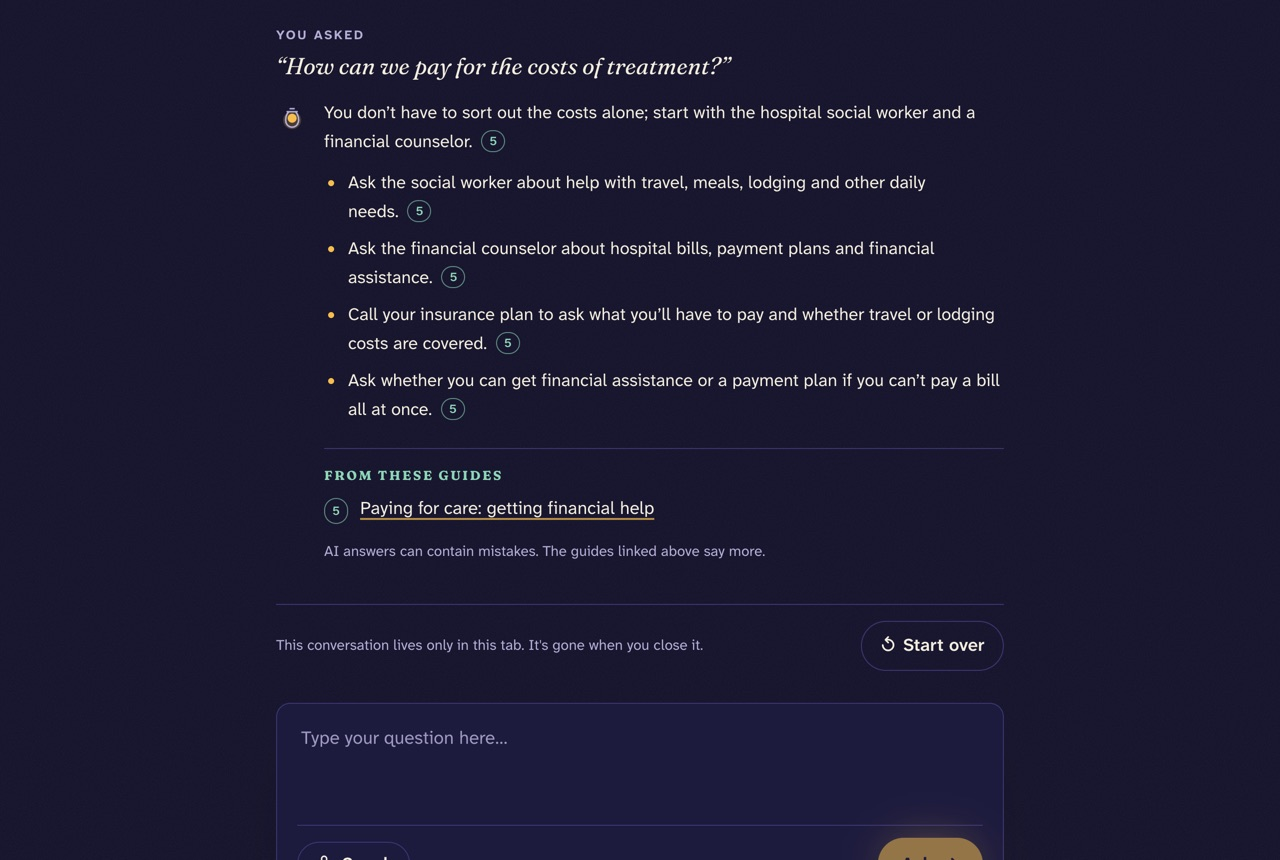
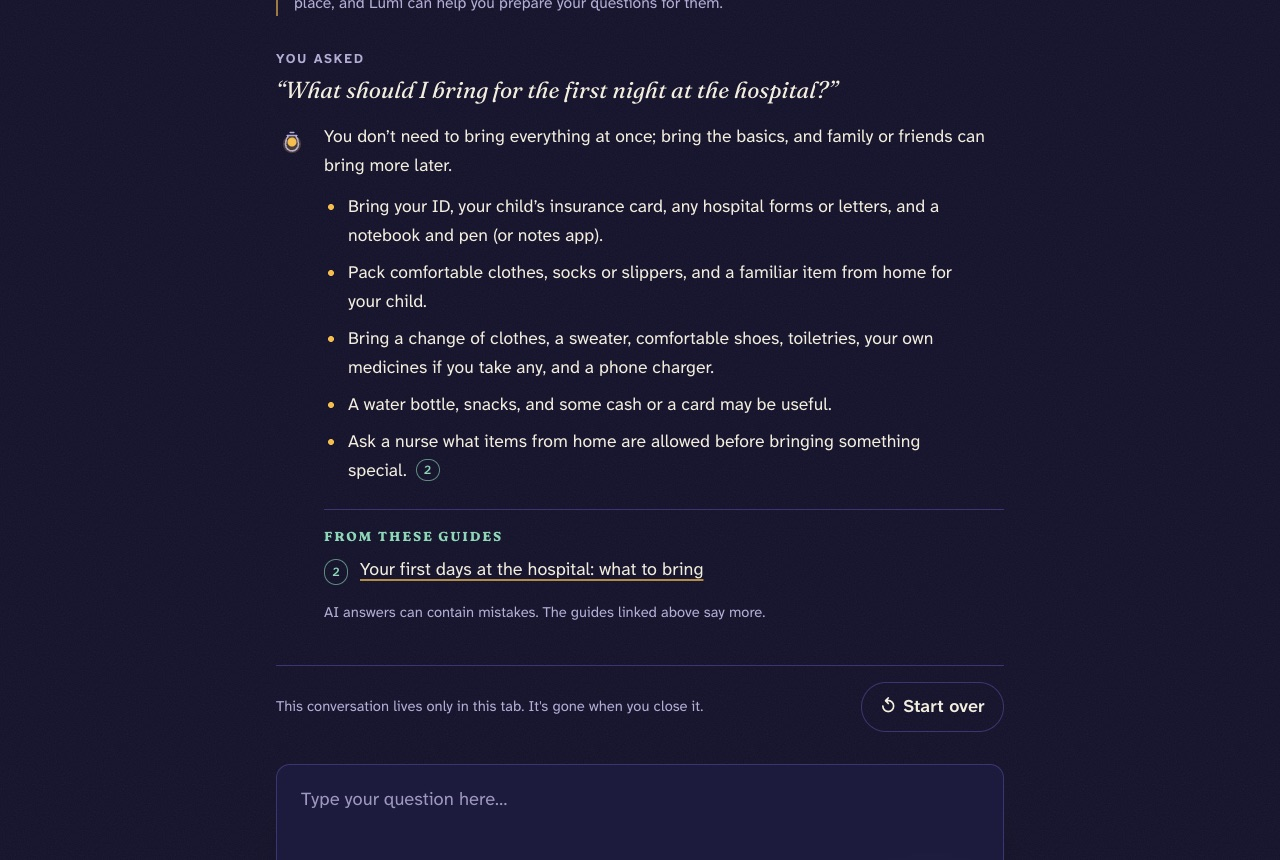
docs: Phase 3 fixes round 1 (ADR 0016 revision 1, tradeoffs, screenshots, process log)

diff --git a/docs/decisions/0016-phase-3-ui.md b/docs/decisions/0016-phase-3-ui.md
@@ -1,6 +1,6 @@
 # 0016 — Phase 3 UI: one deep slice, honest mocks, on-device state
 
-**Status:** Proposed · 2026-10-31 · *Phase 3 (UI). Pending review and Felipe's sign-off.*
+**Status:** Proposed · 2026-10-31 · *Phase 3 (UI). Revised after Codex's Phase 3 review (fixes round 1). Pending re-review and Felipe's sign-off.*
 
 ## Context
 The brief asks for one slice done deeply and reasonable placeholders for the rest. The server side (Phases 0–2) is done: the chat pipeline, notebook classification, voice, gaps, staff and the ledger. Phase 3 is the site a stressed parent actually sees, often on a phone at 2 a.m. It must also look like something FutureProofing would proudly show a client, without any "AI template" look. Nothing in this phase may weaken a server guardrail.
@@ -40,12 +40,12 @@ The brief asks for one slice done deeply and reasonable placeholders for the res
 - The processing notice (`notebook.processingNotice`, naming OpenAI; ADR 0005) sits next to the button, so it's seen before anything is sent.
 - Prepare sends at most `maxNotes` (the most recent 40).
 - The page renders the current contract:
-  - Safety notices come first, on organized pages, fallback pages and 400 responses.
+  - Safety notices come first, before any note, on every sheet: organized, fallback, 400 responses and the by-date page (see "Revision 1").
   - Topic headings come from the dictionaries.
   - Note text is rendered verbatim (`white-space: pre-wrap`), with the wall-clock date the device wrote.
-- If preparing fails, "Print my notes by date" builds the same page on the device without AI.
+- If preparing fails (or the device is offline), "Print my notes by date" builds the same page on the device without AI, with the safety notices.
 - Print uses a print stylesheet: ink on white, a header with the date, and no navigation or buttons.
-- Share uses the Web Share API where available, and otherwise copies to the clipboard. There's also a plain "Copy". Shared and copied text is the notes verbatim.
+- Share uses the Web Share API where available, and otherwise copies to the clipboard. There's also a plain "Copy". Shared and copied text starts with the full fixed safety notice (title, body and every step, in the page's language) when one applies, then the notes verbatim.
 
 **Guides:** the KB articles themselves, as a library and article pages. Citations link there.
 
@@ -60,6 +60,33 @@ The brief asks for one slice done deeply and reasonable placeholders for the res
 **Language:** `[locale]` routes and all copy in the dictionaries (Spanish with "tú"). The language switch is a **full page load**, because it swaps `<html lang>`, and a client re-render of the root layout warned about the theme script and dropped the saved theme.
 
 **Footer:** "Lumi is a fictional foundation. Demo content. Not medical advice." It also holds the **only** non-safety phone number on the site, a fictional `555-0142` in `footer.contactPhone`, enforced by the dictionary tests (ADR 0012).
+
+## Revision 1: Phase 3 fixes round 1 (Codex review)
+
+**Safety notices can't be lost on the device (B1, B4)**
+- The notebook page runs the **same** deterministic check as the server (`checkEmergency` from `src/server/safety`). That module is pure TypeScript with no Node APIs, so it's imported directly. Nothing was copied, and the server rules are unchanged.
+- `src/lib/notebook-sheet.ts` builds every sheet. It merges the server's notices with the local check: a note is flagged if either flags it, and one notice is shown per kind, medical emergency first.
+- The error panel shows the notices from a 400 together with the local check. "Print my notes by date" keeps both. Offline, the local check alone flags the page.
+- A server notice on the by-date page contributes only its **kind**. Its `noteIndex` refers to the request, which may differ from the notes now on the page (notes added since, or the 40-note cap), so the flag dots come from the local check.
+- `src/lib/notebook-safety.ts` holds the kind → copy mapping, used by both the screen and Copy/Share. The export can't drift from the screen: it includes the title, the body and every step, so the self-harm notice carries 911 and 988.
+
+**Verbatim means verbatim (B5):** `addNote` stores the string exactly as typed, including leading and trailing whitespace and newlines. `trim` is only used to refuse a blank note. The request sends the same string, and the server already showed notes untrimmed. The list and the sheet render with `white-space: pre-wrap`.
+
+**No microphone after leaving (B2):** each start takes a token, and unmounting bumps it. `openMicrophone` (src/lib/voice.ts) checks the token after the permission prompt resolves. A stale stream has every track stopped at once, and no recorder is created.
+
+**Staff sign-out is confirmed (B3):** the session cookie is httpOnly, so only the server can clear it. The page shows sign-in only after `/api/staff/logout` answers `200 {status:"ok"}`. Otherwise the dashboard stays, with "Couldn't sign you out. Try again." and a retry button (EN/ES).
+
+**Polish**
+- **Phone landing:** the headline, lede and "Ask Lumi a question" come before the illustration below `lg`. At 390 × 844 the button ends at about 570–620 px, above the fold.
+- **Citation pills:** `collapseRepeatedCitations` is presentation only, and only for answers. A run of consecutive citations to the same single guide (across sentences, bullets and paragraphs) shows one pill at its end. A grouped citation ("[1, 3]"), a change of guide or a heading ends the run. An answer that cites one guide throughout shows a single pill. The Sources list and the citation checks are untouched.
+- **Ask box focus:** when the textarea has focus, the box gets an amber border and a 3 px ring.
+- **Volunteer:** scrolling to the sign-up form uses `behavior: "auto"` under `prefers-reduced-motion`.
+
+**Tradeoffs accepted in this revision**
+- The safety regexes now also ship in the browser bundle. They're public in the repo anyway, and they're small. A client that skips them only hurts itself, because the server still checks every note before preparing.
+- A collapsed run leaves earlier sentences without their own pill. The claim's source is the next pill in the run, which is always the same single guide, so the association stays correct but less explicit.
+- Notes typed with stray trailing spaces or blank lines print that way. That's the cost of "the parent's own words, exactly".
+- The by-date page shows server notices by kind, without pointing at a note, when only the server matched. This can only happen if the server and client rules diverge, which they can't with a shared module.
 
 ## Consequences
 - The deep slice is complete end to end, and every failure ends in calm, fixed copy with 911.
@@ -76,6 +103,8 @@ The brief asks for one slice done deeply and reasonable placeholders for the res
 - **Mock schedules:** no clock times, because the dosage gate in the content rules flags them in UI copy.
 - **First-save network error:** if the very first gap save loses its response, the UI says "couldn't save". The id is created by the server, so the page has no credentials to retry or delete. The lazy retention and staff delete still apply.
 - **Staff 401 in the console:** opening the staff page before signing in logs one browser "401" line. It's the session check, by contract.
+- **Generic notebook rate-limit wording:** a rate-limited (or capacity-limited) prepare returns the by-date fallback page with the generic "We couldn't sort your notes by topic right now" line, not a specific "try again in a few minutes". Left as is after the Phase 3 review.
+- **Narrow screens and zoom:** checked at 390 px and 1280 px only. 320 px widths and 200% browser zoom weren't systematically checked. Left as is after the Phase 3 review.
 
 ## Alternatives
 - **A component library (shadcn/Radix).** Rejected: it brings the template look we're avoiding, and a few utilities were enough.

diff --git a/docs/PROCESS.md b/docs/PROCESS.md
@@ -430,3 +430,36 @@ The builder agent (Claude) built every page and flow on top of the approved serv
 **Live usage for the check** (from the ledger): 19 `gpt-6-luna` calls (router 10, answer 6, notebook 3) and 1 `gpt-transcribe` call (4 s), about $0.003 derived. Fixed-copy outcomes were checked live first. For the README stills they replay the same event shape.
 
 **Checks.** Node 24.19.0. `pnpm lint` ✓, `pnpm typecheck` ✓, `pnpm test` ✓ (37 files, 646 tests, up from 589), `pnpm test:kb` ✓ (5 files, 156 tests), `pnpm build` ✓. All exit codes 0.
+
+## Phase 3 fixes round 1 (Codex review)
+
+Codex reviewed Phase 3 and found five blocking issues and four cheap polish items. The builder agent (Claude) fixed only those, as fixes round 1 of at most 2. Decisions and tradeoffs are in [ADR 0016 § Revision 1](decisions/0016-phase-3-ui.md#revision-1-phase-3-fixes-round-1-codex-review) and the README table. Server guardrails were untouched.
+
+| Finding | Status | What changed |
+|---|---|---|
+| B1 Local notebook fallback dropped safety notices | Fixed | The page imports the server's own `checkEmergency` (pure, no Node APIs). `src/lib/notebook-sheet.ts` merges server and local notices for every sheet. The 400 panel, "Print my notes by date" and offline preparation all show the fixed notices before the notes, with flagged notes marked. |
+| B2 Recording could start after leaving the page | Fixed | A start token, bumped on unmount, plus `openMicrophone()`. A stream that arrives late has every track stopped, and no `MediaRecorder` is created. |
+| B3 Failed staff logout left a hidden session | Fixed | `signOutStaff()` succeeds only on `200 {status:"ok"}`. On failure the dashboard stays, with "Couldn't sign you out. Try again." / "No pudimos cerrar tu sesión. Inténtalo de nuevo." and a retry button. |
+| B4 Copy/Share omitted the safety instructions | Fixed | One kind → copy mapping (`src/lib/notebook-safety.ts`) feeds both the screen and the export. The text includes the title, body and every step, in the sheet's language, before the notes (911; plus 988 for self-harm). |
+| B5 "Verbatim" trimmed whitespace | Fixed | `addNote` stores the exact string; trim only refuses blank notes. The request and the server already kept it, and the list and sheet use `pre-wrap`. |
+| P1 Phone landing | Applied | The headline, lede and "Ask Lumi a question" come before the illustration below `lg`. The button ends at 571–620 px of an 844 px viewport. |
+| P2 Repeated citation pills | Applied | `collapseRepeatedCitations()`, for answers only: one pill per run of the same single guide. Sources are unchanged. |
+| P3 Ask textarea focus | Applied | An amber border and a 3 px ring on the box while the textarea has focus. |
+| P4 Volunteer smooth scroll | Applied | `behavior: "auto"` under `prefers-reduced-motion`. |
+| Notebook rate-limit wording, 320 px / 200% zoom | Documented | Left as is, per the review. Added to the ADR 0016 known limitations and the README table. |
+
+**Tests** (+26): local notices EN/ES; kind ordering; the export for each kind in EN and ES (title, body, every step, 911/988, before the notes); sheet models (by date and offline flagged, 400 notices kept, prepared merge, verbatim text); exact-whitespace storage; a delayed `getUserMedia` mock (unmounted → tracks stopped, null, no recorder; still mounted → stream untouched; denied → rejects); `signOutStaff` (ok, 500, unexpected body, non-JSON, offline); citation collapsing (single guide → one pill, runs across guides, grouped citations and headings end a run, no-op returns the same blocks).
+
+**Browser re-check:** a production build (`next start`) with Chromium via the scratch `playwright-core` in /tmp. EN and ES at 390 px and 1280 px, 80 checks, 80/80 passed, twice. API responses were mocked with `page.route`, and offline used `context.setOffline`.
+- **B1:** a mocked 400 with a notice → notice in the panel → by-date sheet with the notice before the notes and the note flagged.
+- **B1 offline:** both notices in the panel and on the sheet, the 988 button, 2 flagged notes.
+- **B4:** clipboard text has the titles and steps before the notes, with 988 for self-harm.
+- **B5:** localStorage, the request body and the rendered text are byte-identical, with `pre-wrap`.
+- **B2:** a `getUserMedia` stub resolved after client-side navigation → 1 track stopped (`ended`), 0 recorders.
+- **B3:** a mocked 500 on logout → dashboard and message stay → retry → sign-in, and `/api/staff/gaps` then returns 401.
+- **Polish:** P1 CTA above the fold, no overflow. P2 a mocked answer shows pills [1], [2] with an intact Sources list. P3 a ring appears on focus. P4 reduced motion → `auto`.
+- Screenshots updated: `landing-mobile-es.jpg`, and `ask-answer-desktop.jpg` from **one live call** (the "What to bring" chip). The real answer cited one guide throughout and now shows a single pill at the end.
+
+**What didn't work at first:** the first browser run had a script bug. `section li` matched a step inside the first notice, because the page wraps the sheet in a `<section>`, so it looked like "notices after notes". Scoping the selector to the article fixed it; the app was correct. The mobile nav link in the B2 check is hidden behind the menu, so the check navigates via the logo instead.
+
+**Checks.** Node 24.19.0. `pnpm lint` ✓, `pnpm typecheck` ✓, `pnpm test` ✓ ✓ (2 runs, 40 files, 672 tests each, up from 646), `pnpm test:kb` ✓ (5 files, 156 tests), `pnpm build` ✓. All exit codes 0. Live usage: 1 `gpt-6-luna` answer flow (router + answer).

diff --git a/README.md b/README.md
@@ -75,6 +75,11 @@ Every tradeoff is a conscious, time-boxed choice for a prototype. Each is record
 | **Fictional phone number in the footer** ([ADR 0012](docs/decisions/0012-us-scope-and-crisis-contacts.md), ADR 0016) | The footer's demo contact line shows `555-0142`, from the reserved fictional range. It's the only number besides 911/988, and never in safety or fallback copy. | A real-looking footer without a real number. Tests allow exactly that one key, in the `555-01xx` shape. | A real foundation's contact details. |
 | **First gap save that loses its response** (ADR 0005, 0016) | If the network drops the very first save's response, the page says "couldn't save". It has no id or token yet (the server creates them), so it can't offer a retry or delete. | Rare, and the question still expires with the 30-day purge, and staff can delete it. Retries after an `uncertain` keep their credentials. | Client-generated ids, so every save can be retried or deleted idempotently. |
 | **Language switch reloads the page** (ADR 0016) | Switching EN↔ES is a full page load, which ends the current tab's conversation. | It swaps `<html lang>` cleanly and keeps the saved theme. A client re-render of the root layout dropped both. | Keep the conversation in `sessionStorage` across a language switch. |
+| **Safety check also runs in the browser** (ADR 0016, rev. 1) | The notebook page imports the same deterministic check as the server, so the by-date and offline pages show the fixed notices before the notes. Copy/Share includes the full notice (title, body, every step; 988 for self-harm). The regex lists ship in the client bundle. On the by-date page, a server-only notice shows its kind without pointing at a note. | A notice must never disappear because the network did. One shared module means no drift between server and device. | A shared safety package with its own version, so client and server can be checked for the same rules. |
+| **Repeated citation pills collapsed** (ADR 0016, rev. 1) | When consecutive sentences or bullets cite the same single guide, only the last one in the run shows the pill. An answer citing one guide shows one pill. Earlier sentences in a run have no pill of their own. | Pill after pill on every bullet was noisy at 2 a.m. The Sources list and the citation checks are unchanged, and a run never spans two guides. | Per-sentence hover highlighting of the supporting guide. |
+| **Notes kept with their exact whitespace** (ADR 0016, rev. 1) | Leading and trailing spaces and blank lines are stored, sent and printed as typed. Only blank notes are refused. | "Verbatim" has to mean verbatim for a parent's notes. | A gentle "remove extra blank lines?" suggestion that never edits automatically. |
+| **Generic notebook rate-limit wording** (ADR 0016) | A rate- or capacity-limited prepare shows the by-date page with the generic "couldn't sort right now" line. | Same calm outcome either way: every note, by date. Low value for the demo. | A specific "try again in a few minutes" line. |
+| **320 px and 200% zoom not systematically checked** (ADR 0016) | The browser check covered 390 px and 1280 px, EN and ES. | Time-boxed. Layouts are fluid, with no fixed widths. | Add 320 px and 200% zoom passes to the browser check. |
 | **Clinician review pending** (ADR 0003, 0015) | Safety patterns, the fixed emergency and medical copy, what counts as a dose, and the notebook topics haven't been reviewed by a clinician. | Prototype for a take-home, with no clinical partner. | Clinician review before any real family uses Lumi. |
 
 ## Screens
@@ -84,7 +89,7 @@ Real screenshots from the browser check (dark "night" theme unless noted). Answe
 | | |
 |---|---|
 | ![Landing, desktop](docs/screenshots/landing-desktop.jpg) Landing | ![Landing, dawn theme](docs/screenshots/landing-dawn-desktop.jpg) Landing, dawn theme |
-| ![Answer with citations](docs/screenshots/ask-answer-desktop.jpg) Ask Lumi: an answer with citation links and sources | ![Medical template](docs/screenshots/ask-medical-desktop.jpg) Medical question: fixed template + "Add to my notebook" |
+| ![Answer with citations](docs/screenshots/ask-answer-desktop.jpg) Ask Lumi: an answer citing one guide shows its pill once, plus sources | ![Medical template](docs/screenshots/ask-medical-desktop.jpg) Medical question: fixed template + "Add to my notebook" |
 | ![Abstained and gap preview](docs/screenshots/ask-abstained-gap-desktop.jpg) No guide yet: editable preview, disclosure, consent | ![Staff area](docs/screenshots/staff-desktop.jpg) Staff: saved questions and usage with derived cost |
 | ![Notebook](docs/screenshots/notebook-desktop.jpg) My notebook | ![Prepared page](docs/screenshots/notebook-prepared.jpg) Prepared for the appointment, notes verbatim |
 | ![Print view](docs/screenshots/notebook-print.jpg) Print layout | ![Guides](docs/screenshots/guides-desktop.jpg) Guide library |
